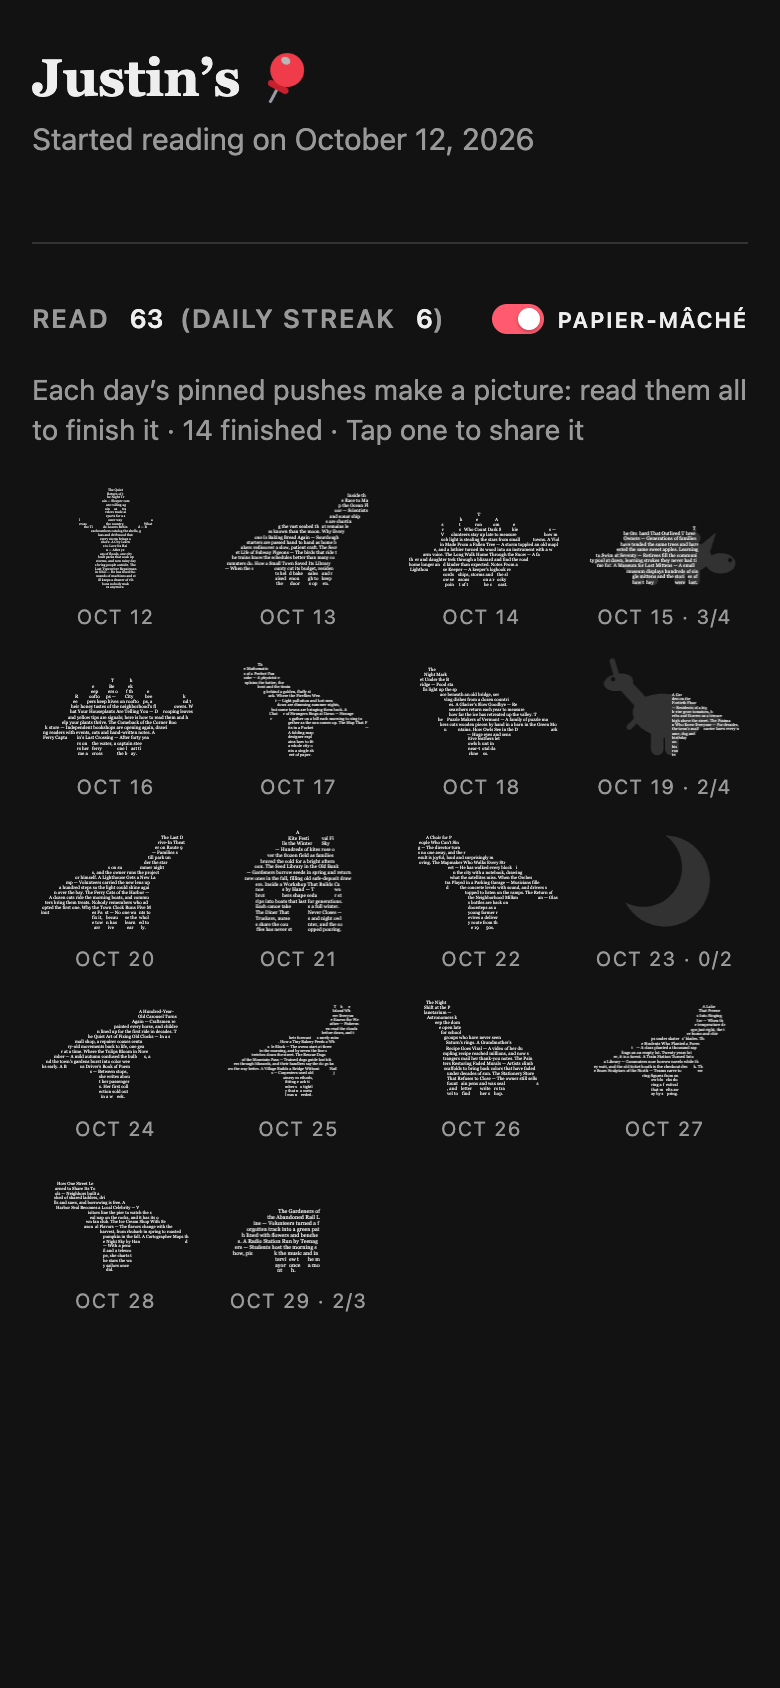
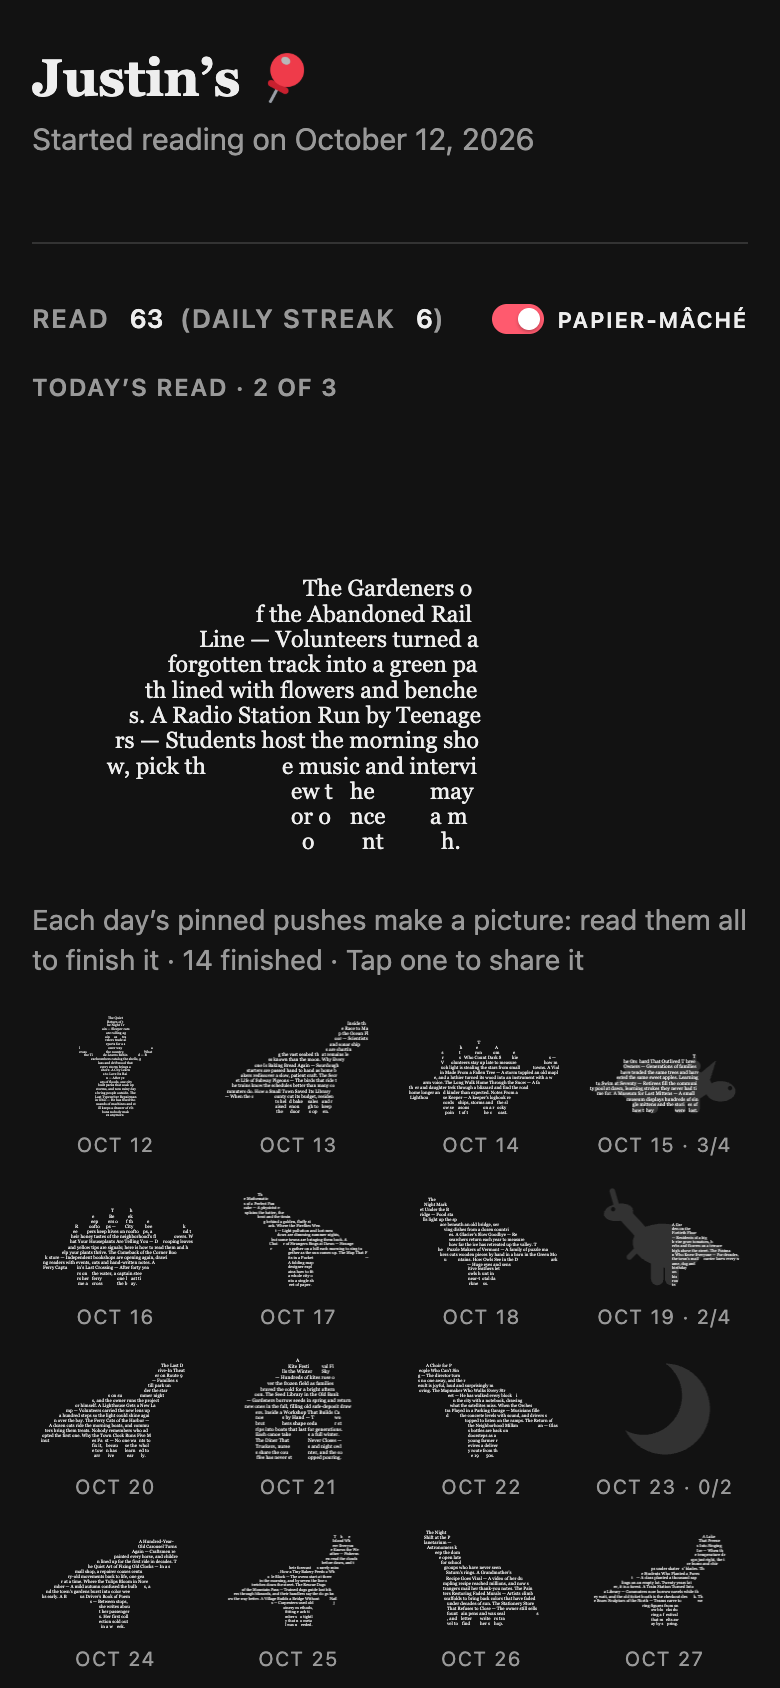
Read panel: Today's read on top in both modes (today's word art so far, with its count); a deleted article leaves its day's count, read or not; the demo's × redraws the pictures and counts

diff --git a/src/pushpin/cards.py b/src/pushpin/cards.py
@@ -81,11 +81,13 @@ box-shadow:0 1px 2px rgba(0,0,0,.3);transition:transform .25s ease}
 .pm[aria-pressed=true]{color:var(--fg)}.pm[aria-pressed=true] .track{background:var(--on)}.pm[aria-pressed=true] .knob{transform:translateX(11px)}
 .papier-hint{font-size:14px;color:var(--muted);margin:0 0 14px}
 .papier{opacity:0;transition:opacity .5s ease;margin-top:4px;display:grid;grid-template-columns:repeat(4,1fr);gap:10px 8px}
-.papier.on{opacity:1}.papier[hidden]{display:none}.papier figure{margin:0}
-.papier figure canvas{display:block;width:100%}.papier .still{cursor:default}.papier .still:hover{background:none}
-.papier canvas{display:block;width:100%}.papier .dino{display:block;box-sizing:border-box;width:100%;padding:4px 2px;border:0;border-radius:8px;background:none;cursor:pointer;
--webkit-tap-highlight-color:transparent;transition:transform .2s ease,background .2s ease}.papier .dino:hover{background:var(--btn)}
-.papier .dino:active{transform:scale(.94)}
+.papier.on{opacity:1}.papier[hidden]{display:none}
+.papier-today{margin:0 0 18px}.papier-today h3{font-size:12px;letter-spacing:.06em;text-transform:uppercase;color:var(--muted);font-weight:600;margin:0 0 6px}
+.papier-today figure{margin:0 auto;width:min(100%,340px)}.papier-today canvas{display:block;width:100%}.papier figure{margin:0}
+.papier figure canvas{display:block;width:100%}.papier .still,.papier-today .still{cursor:default}.papier .still:hover,.papier-today .still:hover{background:none}
+.papier canvas{display:block;width:100%}.papier .dino,.papier-today .dino{display:block;box-sizing:border-box;width:100%;padding:4px 2px;border:0;border-radius:8px;background:none;cursor:pointer;
+-webkit-tap-highlight-color:transparent;transition:transform .2s ease,background .2s ease}.papier .dino:hover,.papier-today .dino:hover{background:var(--btn)}
+.papier .dino:active,.papier-today .dino:active{transform:scale(.94)}
 .sharecard{border:0;padding:44px 16px 16px;border-radius:18px;background:var(--bg);color:var(--fg);width:min(92vw,420px);
 box-sizing:border-box;box-shadow:0 24px 80px rgba(0,0,0,.35)}.sharecard::backdrop{background:rgba(0,0,0,.55)}
 .sharecard img{display:block;max-width:100%;max-height:58vh;margin:0 auto;min-height:120px;object-fit:contain}
@@ -205,7 +207,20 @@ document.querySelectorAll("button[data-volume]").forEach(b => b.addEventListener
   document.querySelectorAll("button[data-volume]").forEach(x => x.setAttribute("aria-pressed", x === b))));
 const pub = document.querySelector("#public");
 if (pub) pub.addEventListener("change", () => { document.querySelector(".share").hidden = !pub.checked; });
-document.querySelectorAll("button[data-del]").forEach(b => b.addEventListener("click", () => b.closest("li").remove()));
+// ×: gone from the list, and out of its day's count (read or pinned), so the pictures redraw
+document.querySelectorAll("button[data-del]").forEach(b => b.addEventListener("click", () => {
+  const li = b.closest("li"), day = li.dataset.day, wasRead = !li.querySelector("a[data-read]"), title = li.querySelector("a").textContent;
+  li.remove();
+  const h = [...document.querySelectorAll(".profile h2")].find(x => x.textContent.startsWith(wasRead ? "Read" : "Pinned"));
+  const n = h && h.querySelector(".n");
+  if (n) n.textContent = Math.max(0, +n.textContent - 1);  // the header's count
+  const el = document.getElementById("papier-data"), days = el && JSON.parse(el.textContent), d = days && days.find(x => x.day === day);
+  if (!d) return;
+  d.pinned -= 1;
+  if (wasRead) { d.read -= 1; const i = d.titles.indexOf(title); if (i >= 0) { d.titles.splice(i, 1); d.abstracts.splice(i, 1); } }
+  if (d.pinned <= 0) days.splice(days.indexOf(d), 1);
+  el.textContent = JSON.stringify(days); dispatchEvent(new Event("papier:update"));
+}));
 const who = document.querySelector(".who");
 if (who) who.addEventListener("submit", ev => ev.preventDefault());
 </script>"""
@@ -281,7 +296,8 @@ def profile_page(reader: dict, read: list[dict], owner: bool, share_url: str = "
             button = (f'<button class="del" data-del="{e(a["news_id"])}" data-confirm="{e(ask)}" '
                       f'aria-label="Delete">×</button>')
         read_tap = f' data-read="{e(a["push_id"])}"' if a.get("push_id") else ""  # a pinned one: tapping reads it
-        return (f'<li><div><a href="{e(a["url"] or "#")}"{read_tap}>{e(a["title"] or "Untitled")}</a>'
+        day = a.get("day") or (a.get("read_at") or "")[:10]  # which day's picture it's in (the demo redraws by it)
+        return (f'<li{f' data-day="{e(day)}"' if day else ""}><div><a href="{e(a["url"] or "#")}"{read_tap}>{e(a["title"] or "Untitled")}</a>'
                 f'</div>{button}</li>')
 
     top = ""
@@ -301,9 +317,9 @@ def profile_page(reader: dict, read: list[dict], owner: bool, share_url: str = "
     # Read n (Daily streak d), with the Papier-mâché switch on the right, then the list. A private
     # list on a public link shows only that header: no titles, so no switch and no dinosaurs.
     shown = owner or public  # Papier-mâché only uses titles the page already shows
-    switch, hint, gallery = papier(read, days, today or date.today()) if shown else ("", "", "")
+    switch, hint, gallery, today_art = papier(read, days, today or date.today()) if shown else ("", "", "", "")
     head = f'<div class="readhead"><h2>Read <span class="n">{n}</span>{on_a_roll}</h2>{switch}</div>'
-    articles = (f'<div class="readpanel">{head}{hint}<ul class="list">{"".join(item(a, owner) for a in read)}</ul>'
+    articles = (f'<div class="readpanel">{head}{today_art}{hint}<ul class="list">{"".join(item(a, owner) for a in read)}</ul>'
                 f'{gallery}</div>' if read
                 else '<h2>Read</h2><p class="empty">Nothing yet. Tap Read on a push to start.</p>')
     if owner:
@@ -340,7 +356,8 @@ def profile_page(reader: dict, read: list[dict], owner: bool, share_url: str = "
 # when all of them are; tapping a finished one shares it as text.
 PAPIER_SCRIPT = """<script>(() => {
 const sw = document.getElementById('papier-on'), box = document.getElementById('papier');
-const data = document.getElementById('papier-data'), days = JSON.parse(data.textContent);
+const data = document.getElementById('papier-data');
+let days = JSON.parse(data.textContent);
 const panel = sw.closest('.readpanel'), list = panel.querySelector('.list'), hint = panel.querySelector('.papier-hint');
 let on = false, built = false;
 const E = (c, x, y, rx, ry, r = 0) => { c.beginPath(); c.ellipse(x, y, rx, ry, r, 0, 7); c.fill(); };
@@ -852,32 +869,53 @@ function dayText(d) {
   return {text, flip, parts, seed};
 }
 const MONTHS = ['Jan', 'Feb', 'Mar', 'Apr', 'May', 'Jun', 'Jul', 'Aug', 'Sep', 'Oct', 'Nov', 'Dec'];
-function build(animate) {
-  box.innerHTML = '';
-  days.forEach((d, k) => {  // one picture a day, oldest first, made of that day's read headlines
-    const kind = kindFor(d.day), day = dayText(d), done = d.pinned > 0 && d.read >= d.pinned, built = d.pinned ? Math.min(1, d.read / d.pinned) : 0;
-    const past = d.day < (data.dataset.today || '');
-    const when = MONTHS[+d.day.slice(5, 7) - 1] + ' ' + +d.day.slice(8, 10);
-    const fig = document.createElement('figure'), canvas = document.createElement('canvas'), cap = document.createElement('figcaption');
-    canvas.setAttribute('role', 'img');
-    canvas.setAttribute('aria-label', 'A ' + kind.name + ' for ' + when + ', ' + d.read + ' of ' + d.pinned + ' pinned pushes read'
-                        + (d.titles.length ? ': ' + d.titles.join('; ') : ''));
+// One day's picture: a figure with the canvas (tap to share it) and, in the grid, its date caption.
+function picture(d, k, animate, caption = true) {
+  const kind = kindFor(d.day), day = dayText(d), done = d.pinned > 0 && d.read >= d.pinned, built = d.pinned ? Math.min(1, d.read / d.pinned) : 0;
+  const past = d.day < (data.dataset.today || '');
+  const when = MONTHS[+d.day.slice(5, 7) - 1] + ' ' + +d.day.slice(8, 10);
+  const fig = document.createElement('figure'), canvas = document.createElement('canvas');
+  canvas.setAttribute('role', 'img');
+  canvas.setAttribute('aria-label', 'A ' + kind.name + ' for ' + when + ', ' + d.read + ' of ' + d.pinned + ' pinned pushes read'
+                      + (d.titles.length ? ': ' + d.titles.join('; ') : ''));
+  if (built > 0 || past) {  // tap to share it (unfinished: today, the part revealed; a past day, the whole die-cut, blank where missed)
+    const tap = document.createElement('button'), named = done || past;
+    tap.type = 'button'; tap.className = 'dino'; tap.title = (named ? kind.name + ' · ' : '') + when;
+    tap.setAttribute('aria-label', 'Share the ' + (named ? kind.name : 'picture') + ' for ' + when);
+    tap.append(canvas); tap.addEventListener('click', () => share(day, kind, built, past));
+    fig.append(tap);
+  } else {
+    const still = document.createElement('div');  // today, nothing read: nothing to share yet
+    still.className = 'dino still'; still.title = 'Read ' + when + '’s pushes to make its word art';
+    still.append(canvas); fig.append(still);
+  }
+  if (caption) {
+    const cap = document.createElement('figcaption');
     cap.textContent = when + (done ? '' : ' · ' + d.read + '/' + d.pinned);
-    if (built > 0 || past) {  // tap to share it (unfinished: today, the part revealed; a past day, the whole die-cut, blank where missed)
-      const tap = document.createElement('button'), named = done || past;
-      tap.type = 'button'; tap.className = 'dino'; tap.title = (named ? kind.name + ' · ' : '') + when;
-      tap.setAttribute('aria-label', 'Share the ' + (named ? kind.name : 'picture') + ' for ' + when);
-      tap.append(canvas); tap.addEventListener('click', () => share(day, kind, built, past));
-      fig.append(tap);
-    } else {
-      const still = document.createElement('div');  // today, nothing read: nothing to share yet
-      still.className = 'dino still'; still.title = 'Read ' + when + '’s pushes to make its word art';
-      still.append(canvas); fig.append(still);
-    }
-    fig.append(cap); box.append(fig);
-    draw(canvas, day.text, built, day.flip, animate, kind, animate ? Math.min(k, 40) * 45 : 0, past);
+    fig.append(cap);
+  }
+  return [fig, () => draw(canvas, day.text, built, day.flip, animate, kind, animate ? Math.min(k, 40) * 45 : 0, past)];
+}
+const TODAY = data.dataset.today || '';
+function build(animate) {  // the grid: every day but today, which has its own place on top
+  box.innerHTML = '';
+  days.filter(d => d.day !== TODAY).forEach((d, k) => {
+    const [fig, paint] = picture(d, k, animate);
+    box.append(fig); paint();
   });
 }
+// Today's read, on top of the panel in both modes (the list and the pictures): today's word art so far.
+const top = document.getElementById('papier-today');
+function today() {
+  if (!top) return;
+  const d = days.find(x => x.day === TODAY) || {day: TODAY, pinned: 0, read: 0, titles: [], abstracts: []};
+  top.innerHTML = '';
+  const head = document.createElement('h3');
+  head.textContent = 'Today’s read' + (d.pinned ? ' · ' + d.read + ' of ' + d.pinned : '');
+  const [fig, paint] = picture(d, 0, false, false);
+  top.append(head, fig); paint();
+}
+today();
 function show(animate) {
   if (!on || built) return;
   built = true; build(animate);
@@ -895,7 +933,9 @@ function set(value, animate) {
 sw.addEventListener('click', () => set(!on, true));
 let off = false; try { off = localStorage.getItem('papier') === '0'; } catch (e) {}
 if (!off) set(true, false);  // on unless this reader turned it off
-let t; window.addEventListener('resize', () => { clearTimeout(t); t = setTimeout(() => { if (on) build(false); }, 150); });
+let t; window.addEventListener('resize', () => { clearTimeout(t); t = setTimeout(() => { today(); if (on) build(false); }, 150); });
+// the days changed on the page (the demo's ×): redraw today's and the grid from the new counts
+addEventListener('papier:update', () => { days = JSON.parse(data.textContent); today(); if (on) build(false); });
 })();</script>"""
 
 
@@ -911,14 +951,15 @@ def papier_days(read: list[dict]) -> list[dict]:
     return list(out.values())
 
 
-def papier(read: list[dict], days: list[dict] | None = None, today: date | None = None) -> tuple[str, str, str]:
+def papier(read: list[dict], days: list[dict] | None = None, today: date | None = None) -> tuple[str, str, str, str]:
     """Papier-mâché for a Read list the page shows: the switch for the panel's header, the
-    instructions (shown when it's on), and the pictures' container with their days and script.
+    instructions (shown when it's on), the pictures' container with their days and script, and the
+    place for today's read (today's word art so far), on top of the panel in both modes.
     One picture a day the reader pinned pushes, made of the ones they read and filled in as they
     read them: reading everything pinned that day finishes it (3 read and 2 still pinned: 3/5). The
     date picks the shape, the same for everyone that day."""
     if not read:
-        return "", "", ""
+        return "", "", "", ""
     days = days if days is not None else papier_days(read)
     data = json.dumps([{"day": d["day"], "pinned": d["pinned"], "read": d["read"], "titles": d["titles"],
                         "abstracts": d.get("abstracts") or []}
@@ -928,10 +969,11 @@ def papier(read: list[dict], days: list[dict] | None = None, today: date | None 
               '<span class="track"><span class="knob"></span></span>Papier-mâché</button>')
     hint = (f'<p class="papier-hint" hidden>Each day’s pinned pushes make a picture: read them all to finish it · '
             f'{done} finished · Tap one to share it</p>')
+    top = '<div class="papier-today" id="papier-today"></div>'  # today's read, filled in by the script
     gallery = (f'<div class="papier" id="papier" hidden></div>'
                f'<script type="application/json" id="papier-data" '
                f'data-today="{(today or date.today()).isoformat()}">{data}</script>{PAPIER_SCRIPT}')
-    return switch, hint, gallery
+    return switch, hint, gallery, top
 
 
 # /demo: a public profile with made-up pushes and reads, to show the daily pictures (most finished, a few not). Nothing is stored: real
@@ -1021,11 +1063,12 @@ DEMO_PIN = {"push_id": "DEMO-PIN", "news_id": "DEMO-PIN", "section": "Arts", "ur
             "title": "The Lantern Makers of the River Festival",
             "abstract": "Each autumn, families fold paper lanterns by hand and set them floating downstream at dusk."}
 DEMO_PINNED = [  # most recently pinned first: today's, then two from Oct 23, two from Oct 19, one from Oct 15
-    {"news_id": "DEMO-PIN", "push_id": "DEMO-PIN", "url": "https://www.nytimes.com", "title": DEMO_PIN["title"]},
-    *({"news_id": f"DEMO-P{k}", "push_id": f"DEMO-P{k}", "url": "https://www.nytimes.com", "title": t} for k, t in enumerate([
-        "The Ferry That Carries Pianos Across the Lake", "A Town Votes on Its Favorite Tree",
-        "Why Cities Are Planting Tiny Forests", "The Last Glassblower on Main Street",
-        "A Night Bus Driver's Favorite Stops"]))]
+    {"news_id": "DEMO-PIN", "push_id": "DEMO-PIN", "url": "https://www.nytimes.com", "title": DEMO_PIN["title"], "day": "2026-10-29"},
+    *({"news_id": f"DEMO-P{k}", "push_id": f"DEMO-P{k}", "url": "https://www.nytimes.com", "title": t, "day": day}
+      for k, (t, day) in enumerate([
+          ("The Ferry That Carries Pianos Across the Lake", "2026-10-23"), ("A Town Votes on Its Favorite Tree", "2026-10-23"),
+          ("Why Cities Are Planting Tiny Forests", "2026-10-19"), ("The Last Glassblower on Main Street", "2026-10-19"),
+          ("A Night Bus Driver's Favorite Stops", "2026-10-15")]))]
 
 
 # (day of October, pushes pinned, read): 18 days, 14 finished; the unread pins are DEMO_PINNED

diff --git a/src/pushpin/store.py b/src/pushpin/store.py
@@ -382,8 +382,8 @@ class Store:
         day the push was sent), pinned (how many they tapped, read or not), read (how many of those
         they tapped Read on, on any day since), and titles and abstracts of the read ones, in send
         order. Reading everything pinned that day finishes its picture; pushes never tapped don't
-        count. An article deleted from the profile leaves the count unless it was read (then it
-        still counts as read, but its words aren't shown)."""
+        count, and neither does an article deleted from the profile, read or not (2 pinned and 3
+        read, one of either deleted: out of 4)."""
         if not reader_id or not self._has_scores():
             return []
         rows = self._rows(f"""SELECT SUBSTR(s.sent_at, 1, 10) AS day, s.push_id, s.title, a.abstract,
@@ -394,15 +394,14 @@ class Store:
             WHERE s.sent ORDER BY s.sent_ts, s.push_id""", r=reader_id)
         out: dict[str, dict] = {}
         for row in rows:
-            if not (row["read"] or row["kept"]):  # pinned, never read, then deleted: gone
+            if not row["kept"]:  # deleted from the profile: it leaves the count
                 continue
             d = out.setdefault(row["day"], {"day": row["day"], "pinned": 0, "read": 0, "titles": [], "abstracts": []})
             d["pinned"] += 1
             if row["read"]:
                 d["read"] += 1
-                if row["kept"]:
-                    d["titles"].append(row["title"] or "Untitled")
-                    d["abstracts"].append(row["abstract"] or "")
+                d["titles"].append(row["title"] or "Untitled")
+                d["abstracts"].append(row["abstract"] or "")
         return list(out.values())
 
     def remove(self, reader_id: str, news_id: str) -> bool:

diff --git a/tests/test_notifier.py b/tests/test_notifier.py
@@ -284,7 +284,7 @@ def test_profile_and_public_history(setup):
 
         post("/public", b"on")
         public = stranger_get(f"/u/{link.group(2)}")
-        assert "Started reading on " in public and '<div class="stat">Read <span class="n">4</span></div>' in public and 'Read <span class="n">4</span>' in public and public.count("<li>") == 4
+        assert "Started reading on " in public and '<div class="stat">Read <span class="n">4</span></div>' in public and 'Read <span class="n">4</span>' in public and public.count("<li data-day=") == 4
         post("/public", b"off")
         private = stranger_get(f"/u/{link.group(2)}")  # just "Read 4": no titles, no dinosaurs
         assert 'Read <span class="n">4</span>' in private and private.count('class="list"') == 0 and 'id="papier-on"' not in private
@@ -570,8 +570,8 @@ def test_a_days_picture_counts_what_was_pinned_and_is_finished_when_all_of_it_is
         get(f"/p/{third}")
         post(f"/remove/{store.push(third)['news_id']}")  # pinned, never read, deleted: it leaves the count
         assert [(d["pinned"], d["read"]) for d in store.days(rid)] == [(2, 2)]
-        post(f"/remove/{store.push(second)['news_id']}")  # read, then deleted: still read, but its words aren't shown
-        assert store.days(rid) == [{"day": day, "pinned": 2, "read": 2, "titles": [title], "abstracts": [abstract]}]
+        post(f"/remove/{store.push(second)['news_id']}")  # read, then deleted: it leaves the count too (out of 1)
+        assert store.days(rid) == [{"day": day, "pinned": 1, "read": 1, "titles": [title], "abstracts": [abstract]}]
         assert store.days(None) == []
         stray = store.new_reader(None)  # no first push time: what they tapped still counts
         store.interact(first, stray, "open")

diff --git a/docs/demo-screens.md b/docs/demo-screens.md
@@ -32,7 +32,8 @@ and abstracts. It stores nothing.
 
 `/demo/me` is the same reader's own view, as if they'd just tapped today's third push: it's pinned
 on top with Read, then the privacy switch, Pinned (pushes tapped but not read yet), Read with the
-pictures, and pushes a day. Its buttons only change the page.
+pictures, and pushes a day. Its buttons only change the page; × takes an article out of its day's
+count and the pictures redraw.
 
 <img src="screens/demo-owner.png" width="300" alt="Demo owner view: today's pinned push with Read, the privacy switch, Pinned 2, Read 63 with the daily pictures, pushes a day">
 
@@ -40,11 +41,14 @@ Each day you pin pushes (tap them) makes one papier-mâché picture, a common sy
 heart, star, moon...) or a dinosaur, the same shape for everyone that day, written in the titles
 and abstracts of the ones you read, each used once. It fills in as you read what you pinned: 3
 read and 2 still pinned is 3/5, everything read is finished, and pushes you never tapped don't
-count. While the day is on, nothing shows of the rest, so it's a guess what it will be (today: Oct
-29 · 2/3). Once the day is over, an unfinished picture gets the grey outline of what it could have
-been under the part that was read (Oct 15 · 3/4), and a day with things pinned but nothing read is
-just the outline (Oct 23 · 0/2). Today, with nothing read yet, says "Start reading to make today's
-word art". The type is sized so the text fills the whole shape, thin parts included.
+count, and an article you delete with × leaves the count whether you read it or not (2 pinned and
+3 read, one deleted: out of 4). While the day is on, nothing shows of the rest, so it's a guess
+what it will be (today: Oct 29 · 2/3). Once the day is over, an unfinished picture gets the grey
+outline of what it could have been under the part that was read (Oct 15 · 3/4), and a day with
+things pinned but nothing read is just the outline (Oct 23 · 0/2). Today, with nothing read yet,
+says "Start reading to make today's word art". The type is sized so the text fills the whole
+shape, thin parts included. At the top of Read, in both the list and the pictures, Today's read
+shows today's word art so far, bigger, with its count (Today's read · 2 of 3).
 
 ## 4. Sharing a picture
 
